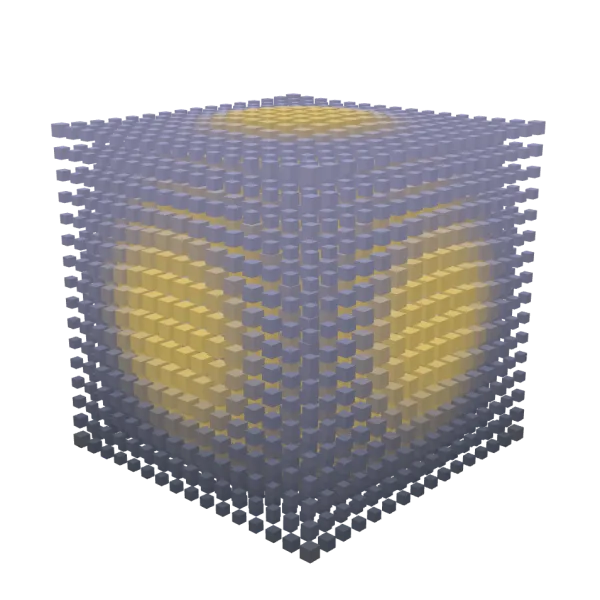
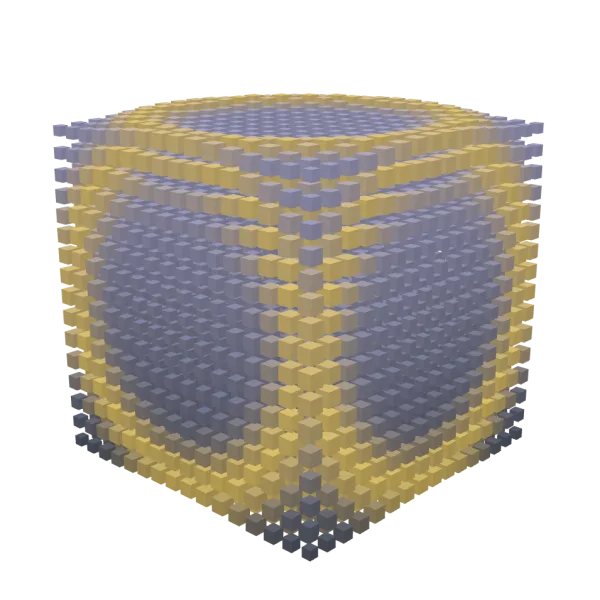
feat(site): pointer ripples, crisper still frame, plain hero HUD, a 404 that lists the packages
- C4: hovering or tapping the lattice sends a lemon ripple out from that cube (up to four, in the shader); off under reduced motion
- C5: the still frame (reduced motion and the poster) is the moment a crest rings each outer face, so the core doesn't glow through; poster and share images regenerated, the HUD's caption left out of the share image
- C6: the hero HUD has no budgets, so a slow machine shows numbers rather than amber
- C16: the 404 lists the five packages with what each does

diff --git a/apps/site/src/scripts/hero.ts b/apps/site/src/scripts/hero.ts
@@ -1,13 +1,15 @@
 /**
  * The landing page's scene: a lattice of cubes with a lemon ripple running through it, measured by
  * the real three-meter HUD docked in its corner, so the page shows the kit at work. The cubes are
- * placed once; the ripple runs in the vertex shader, so a frame uploads one uniform rather than
- * every instance. Loaded after first paint; it stops drawing while off screen, holds still under
- * reduced motion, and leaves the hero's poster in place if WebGL isn't there.
+ * placed once; the ripple runs in the vertex shader, so a frame uploads a few uniforms rather
+ * than every instance. Hovering or tapping the lattice sends a ripple out from that cube (up to
+ * four at once). Loaded after first paint; it stops drawing while off screen, holds still (and
+ * takes no ripples) under reduced motion, and leaves the hero's poster in place without WebGL.
  */
 import { PerformanceMonitor, wrapAnimationLoop } from "@zkmake/three-meter";
 import { mountPerfHud, type ThemeMode } from "@zkmake/three-meter/ui";
 import {
+  Box3,
   BoxGeometry,
   Color,
   DirectionalLight,
@@ -18,7 +20,12 @@ import {
   Matrix4,
   MeshLambertMaterial,
   PerspectiveCamera,
+  Ray,
+  Raycaster,
   Scene,
+  Vector2,
+  Vector3,
+  Vector4,
   WebGLRenderer,
 } from "three";
 
@@ -29,8 +36,18 @@ const SPACING = 0.62;
 const LEMON = new Color("#ffe27a");
 /** Ripple speed, in radians of phase per millisecond. */
 const SPEED = 0.0016;
-/** Held still, the moment a crest runs across the lattice's faces. */
-const STILL_TIME = 3300;
+/**
+ * Held still (reduced motion, and the poster), the moment a crest rings each outer face while the
+ * core is dark, so nothing glows through the gaps between cubes.
+ */
+const STILL_TIME = 900;
+/** Pointer ripples at once; a fifth replaces the oldest. */
+const RIPPLES = 4;
+/** A pointer ripple's speed in cubes a second, and how long it lasts. */
+const RIPPLE_SPEED = 9;
+const RIPPLE_SECONDS = 1.8;
+/** A hover sends a new ripple at most this often, and only once it has moved to another cube. */
+const HOVER_MS = 320;
 /** Base colours by height, low to high: the page's slate into a cool violet. */
 const LOW = new Color("#5d6680");
 const HIGH = new Color("#b3b7f0");
@@ -64,7 +81,14 @@ const startHero = async (host: HTMLElement, theme: ThemeMode): Promise<Hero> => 
 
   const geometry = new BoxGeometry(0.42, 0.42, 0.42);
   const material = new MeshLambertMaterial();
-  const uniforms = { uTime: { value: 0 }, uLemon: { value: LEMON } };
+  // Pointer ripples: a centre in lattice cells (xyz) and a start time in seconds (w); w < 0 is off.
+  const ripples = Array.from({ length: RIPPLES }, () => new Vector4(0, 0, 0, -100));
+  const uniforms = {
+    uTime: { value: 0 },
+    uNow: { value: 0 },
+    uLemon: { value: LEMON },
+    uRipples: { value: ripples },
+  };
   const cubes = new InstancedMesh(geometry, material, COUNT);
   cubes.name = "lattice";
   // The shader moves vertices past the instances' bounds; the lattice is always in view anyway.
@@ -74,6 +98,7 @@ const startHero = async (host: HTMLElement, theme: ThemeMode): Promise<Hero> => 
   // Each cube's resting place and base colour, set once; its distance from the centre (the ripple
   // runs outward) goes to the shader as a per-instance attribute.
   const radius = new Float32Array(COUNT);
+  const cell = new Float32Array(COUNT * 3);
   const matrix = new Matrix4();
   const color = new Color();
   const half = (SIDE - 1) / 2;
@@ -86,24 +111,43 @@ const startHero = async (host: HTMLElement, theme: ThemeMode): Promise<Hero> => 
     cubes.setMatrixAt(index, matrix.makeTranslation(x * SPACING, y * SPACING, z * SPACING));
     cubes.setColorAt(index, color.copy(LOW).lerp(HIGH, (y + half) / (SIDE - 1)));
     radius[index] = Math.hypot(x, y, z);
+    cell.set([x, y, z], index * 3);
   }
 
   geometry.setAttribute("aRadius", new InstancedBufferAttribute(radius, 1));
+  geometry.setAttribute("aCell", new InstancedBufferAttribute(cell, 3));
 
-  // A crest every ~7 cubes, travelling outward; sharpened so most of the lattice rests. A crest
-  // swells its cube, lifts it and tints it lemon.
+  // A crest every ~7 cubes, travelling outward; sharpened so most of the lattice rests. A pointer
+  // ripple is one ring growing from its cube and fading. Either swells a cube, lifts it and tints
+  // it lemon.
   material.onBeforeCompile = (shader) => {
     Object.assign(shader.uniforms, uniforms);
     shader.vertexShader = shader.vertexShader
       .replace(
         "#include <common>",
-        "#include <common>\nattribute float aRadius;\nuniform float uTime;\nvarying float vCrest;",
+        `#include <common>
+        attribute float aRadius;
+        attribute vec3 aCell;
+        uniform float uTime;
+        uniform float uNow;
+        uniform vec4 uRipples[${RIPPLES}];
+        varying float vCrest;`,
       )
       .replace(
         "#include <begin_vertex>",
         `#include <begin_vertex>
         float wave = 0.5 + 0.5 * sin(aRadius * 0.9 - uTime);
-        vCrest = pow(wave, 6.0);
+        float crest = pow(wave, 6.0);
+        for (int i = 0; i < ${RIPPLES}; i++) {
+          float age = uNow - uRipples[i].w;
+          if (age >= 0.0 && age < ${RIPPLE_SECONDS.toFixed(1)}) {
+            float ring = distance(aCell, uRipples[i].xyz) - age * ${RIPPLE_SPEED.toFixed(1)};
+            float pulse = exp(-ring * ring * 0.6) * (1.0 - age / ${RIPPLE_SECONDS.toFixed(1)});
+            crest = max(crest, pulse);
+            wave = max(wave, pulse);
+          }
+        }
+        vCrest = crest;
         transformed *= 0.62 + 0.38 * wave;
         transformed.y += vCrest * 0.22;`,
       );
@@ -121,6 +165,7 @@ const startHero = async (host: HTMLElement, theme: ThemeMode): Promise<Hero> => 
   const frame = (time: number) => {
     if (!still) {
       uniforms.uTime.value = time * SPEED;
+      uniforms.uNow.value = time / 1000;
       cubes.rotation.y = time * 0.00008;
     }
 
@@ -144,10 +189,12 @@ const startHero = async (host: HTMLElement, theme: ThemeMode): Promise<Hero> => 
     count.textContent = COUNT.toLocaleString("en");
   }
 
+  // No budgets: on a slow machine the numbers read as numbers, not an amber warning on the page.
   const hud = mountPerfHud(monitor, {
     parent: meter,
     storageKey: null,
     theme,
+    budgets: false,
     label: "Performance of this scene",
   });
   const loop = wrapAnimationLoop(monitor, frame);
@@ -165,6 +212,61 @@ const startHero = async (host: HTMLElement, theme: ThemeMode): Promise<Hero> => 
     eye.x += (target.x - eye.x) * 0.08;
     eye.y += (target.y - eye.y) * 0.08;
   };
+
+  // The cube under the pointer: the ray in the lattice's own space, against its box, then the
+  // first occupied cell along it (every cell is, so the box's entry point, snapped).
+  const raycaster = new Raycaster();
+  const ray = new Ray();
+  const ndc = new Vector2();
+  const hit = new Vector3();
+  const bounds = new Box3(
+    new Vector3(-half - 0.5, -half - 0.5, -half - 0.5).multiplyScalar(SPACING),
+    new Vector3(half + 0.5, half + 0.5, half + 0.5).multiplyScalar(SPACING),
+  );
+  let next = 0;
+  let lastCell = "";
+  let lastHover = 0;
+
+  const rippleAt = (event: PointerEvent, hover: boolean) => {
+    if (still) {
+      return;
+    }
+
+    const box = renderer.domElement.getBoundingClientRect();
+
+    ndc.set(
+      ((event.clientX - box.left) / box.width) * 2 - 1,
+      -((event.clientY - box.top) / box.height) * 2 + 1,
+    );
+    raycaster.setFromCamera(ndc, camera);
+    ray.copy(raycaster.ray).applyMatrix4(matrix.copy(cubes.matrixWorld).invert());
+
+    if (!ray.intersectBox(bounds, hit)) {
+      return;
+    }
+
+    hit.divideScalar(SPACING).clampScalar(-half, half);
+
+    const key = `${Math.round(hit.x)},${Math.round(hit.y)},${Math.round(hit.z)}`;
+    const now = performance.now();
+
+    if (hover && (key === lastCell || now - lastHover < HOVER_MS)) {
+      return;
+    }
+
+    lastCell = key;
+    lastHover = now;
+    ripples[next]!.set(hit.x, hit.y, hit.z, now / 1000);
+    next = (next + 1) % RIPPLES;
+  };
+
+  const onHover = (event: PointerEvent) => {
+    if (event.pointerType === "mouse") {
+      rippleAt(event, true);
+    }
+  };
+
+  const onPress = (event: PointerEvent) => rippleAt(event, false);
 
   const resize = new ResizeObserver(() => {
     const { clientWidth: width, clientHeight: height } = host;
@@ -186,6 +288,8 @@ const startHero = async (host: HTMLElement, theme: ThemeMode): Promise<Hero> => 
   await renderer.compileAsync(scene, camera);
 
   window.addEventListener("pointermove", onPointer, { passive: true });
+  renderer.domElement.addEventListener("pointermove", onHover, { passive: true });
+  renderer.domElement.addEventListener("pointerdown", onPress, { passive: true });
   resize.observe(host);
   visible.observe(host);
   frame(performance.now());
@@ -196,6 +300,8 @@ const startHero = async (host: HTMLElement, theme: ThemeMode): Promise<Hero> => 
     setTheme: (mode) => hud.setTheme(mode),
     dispose: () => {
       window.removeEventListener("pointermove", onPointer);
+      renderer.domElement.removeEventListener("pointermove", onHover);
+      renderer.domElement.removeEventListener("pointerdown", onPress);
       resize.disconnect();
       visible.disconnect();
       renderer.setAnimationLoop(null);

diff --git a/apps/site/src/styles/site.css b/apps/site/src/styles/site.css
@@ -1740,7 +1740,7 @@ a {
   display: grid;
   justify-items: center;
   gap: 10px;
-  padding: 18vh 16px;
+  padding: 12vh 16px;
   text-align: center;
 }
 
@@ -1753,6 +1753,58 @@ a {
 .missing p {
   margin: 0;
   color: var(--site-muted);
+}
+
+/* The packages, so a mistyped package address still lands somewhere. */
+.missing__packages {
+  display: grid;
+  gap: 2px;
+  width: min(100%, 28rem);
+  margin: 4px 0 8px;
+  padding: 0;
+  list-style: none;
+  text-align: left;
+}
+
+/* Fixed name column (the longest, three-textures, fits) so the jobs line up. */
+.missing__packages a {
+  display: grid;
+  grid-template-columns: 16px 8.5rem 1fr;
+  align-items: baseline;
+  gap: 2px 10px;
+  padding: 8px 10px;
+  border-radius: 8px;
+  color: var(--site-fg);
+  text-decoration: none;
+}
+
+.missing__packages a:hover {
+  background: var(--site-hover);
+}
+
+.missing__packages a:focus-visible {
+  outline: 2px solid var(--site-focus);
+  outline-offset: 1px;
+}
+
+.missing__packages img {
+  align-self: center;
+}
+
+.missing__job {
+  color: var(--site-muted);
+  font-family: var(--site-sans);
+  font-size: 13px;
+}
+
+@media (max-width: 480px) {
+  .missing__packages a {
+    grid-template-columns: 16px 1fr;
+  }
+
+  .missing__job {
+    grid-column: 2;
+  }
 }
 
 .theme-cycle {

diff --git a/apps/site/scripts/make-og.ts b/apps/site/scripts/make-og.ts
@@ -78,7 +78,7 @@ const work = mkdtempSync(join(tmpdir(), "three-kit-og-"));
 /** Hides the site's chrome and any dev panel that isn't `library`'s (the demo pages). */
 const hideChrome = (library: string) => `
   const style = document.createElement("style");
-  style.textContent = ".bar, .install, .inset-frame, .hero__demo-link { display: none !important; }";
+  style.textContent = ".bar, .install, .inset-frame, .hero__caption { display: none !important; }";
   document.head.append(style);
   for (const panel of document.querySelectorAll("#stage ~ .perf-hud, body > .perf-hud")) {
     const brand = panel.querySelector(".perf-hud__brand-name")?.textContent;
